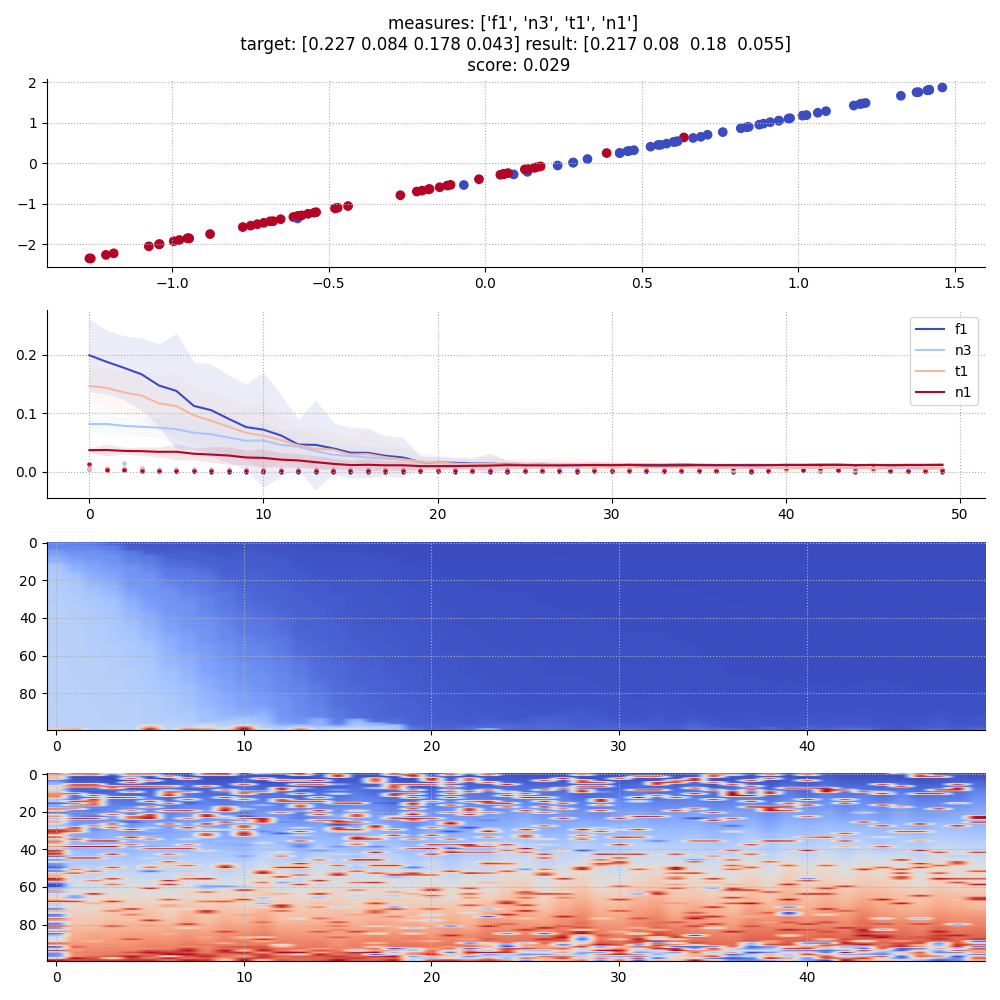
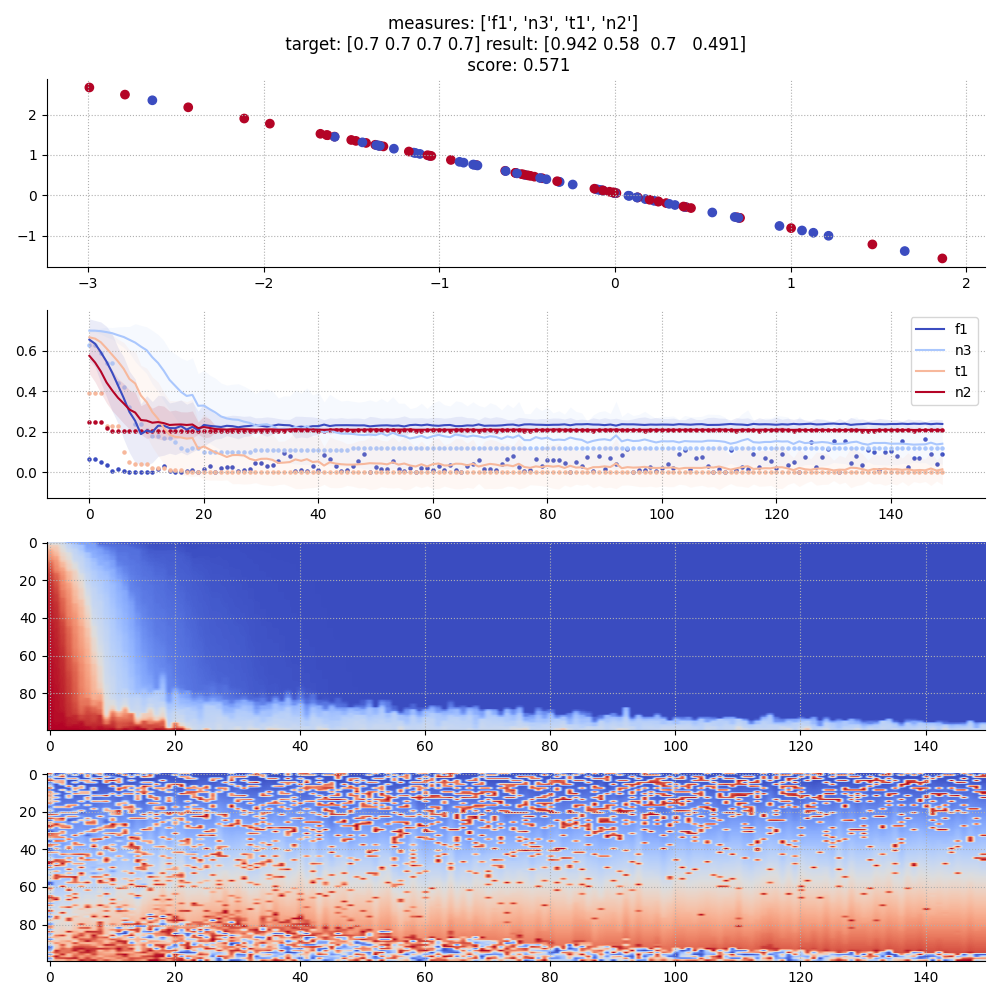
something like 2 criteria

diff --git a/optim_sort_2layer.py b/optim_sort_2layer.py
@@ -15,8 +15,8 @@ def generate(X, projection1, projection2):
 
 ### genetic params
 pop_size = 100
-iters = 50
-cross_ratio = 0.2
+iters = 150
+cross_ratio = 0.4
 mut_ratio = 0.2
 mut_std = 0.1
 
@@ -26,12 +26,13 @@ decay_mut = 0.01
 hls = 2
 
 ### target
-target_X, target_y = load_breast_cancer(return_X_y=True)
-target_X -= np.mean(target_X)
-target_X /= np.std(target_X) 
+# target_X, target_y = load_breast_cancer(return_X_y=True)
+# target_X -= np.mean(target_X)
+# target_X /= np.std(target_X) 
 
-complexity_fun = [f1, n3, t1, n1]
-target_complexity = [f(target_X, target_y) for f in complexity_fun]
+complexity_fun = [f1, n3, t1, n2]
+# target_complexity = [f(target_X, target_y) for f in complexity_fun]
+target_complexity = [0.7, 0.7, 0.7, 0.7]
 complexity_fun_names = [c.__name__ for c in complexity_fun]
 
 ### init
